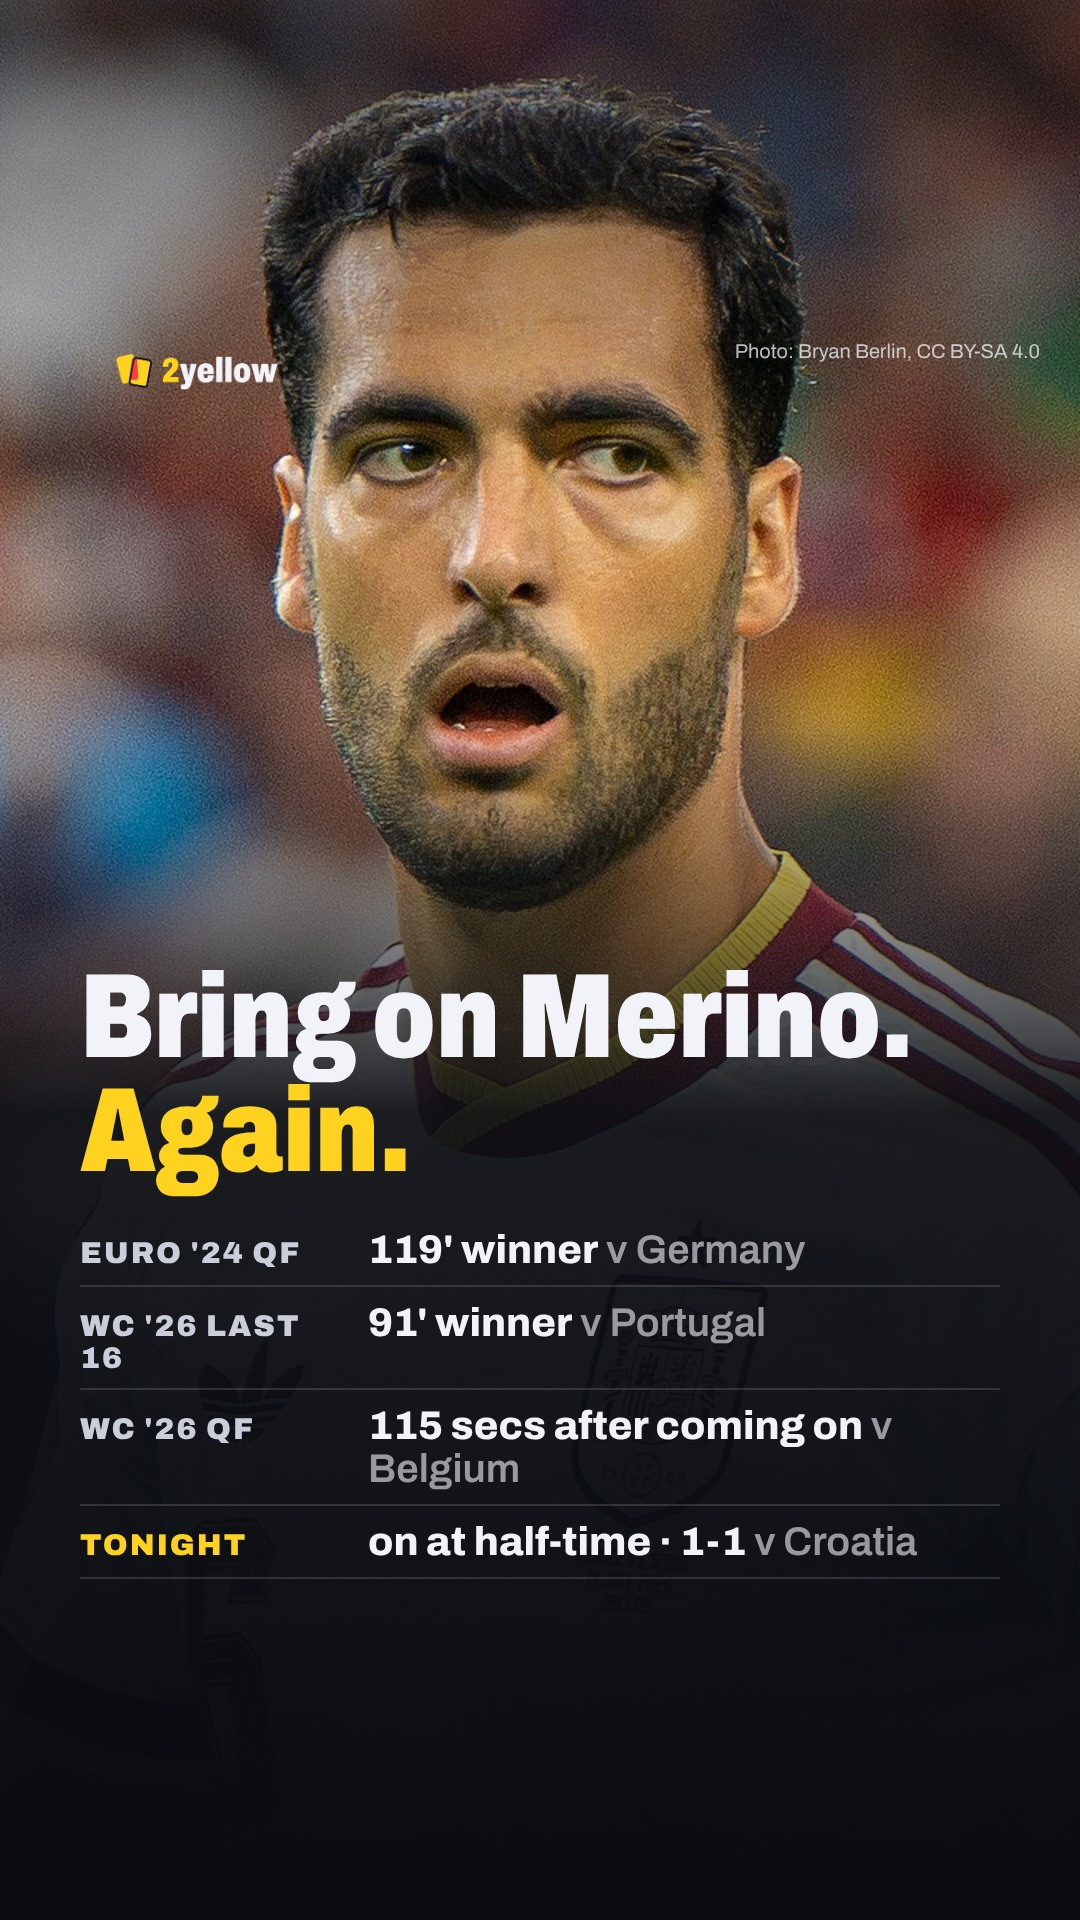
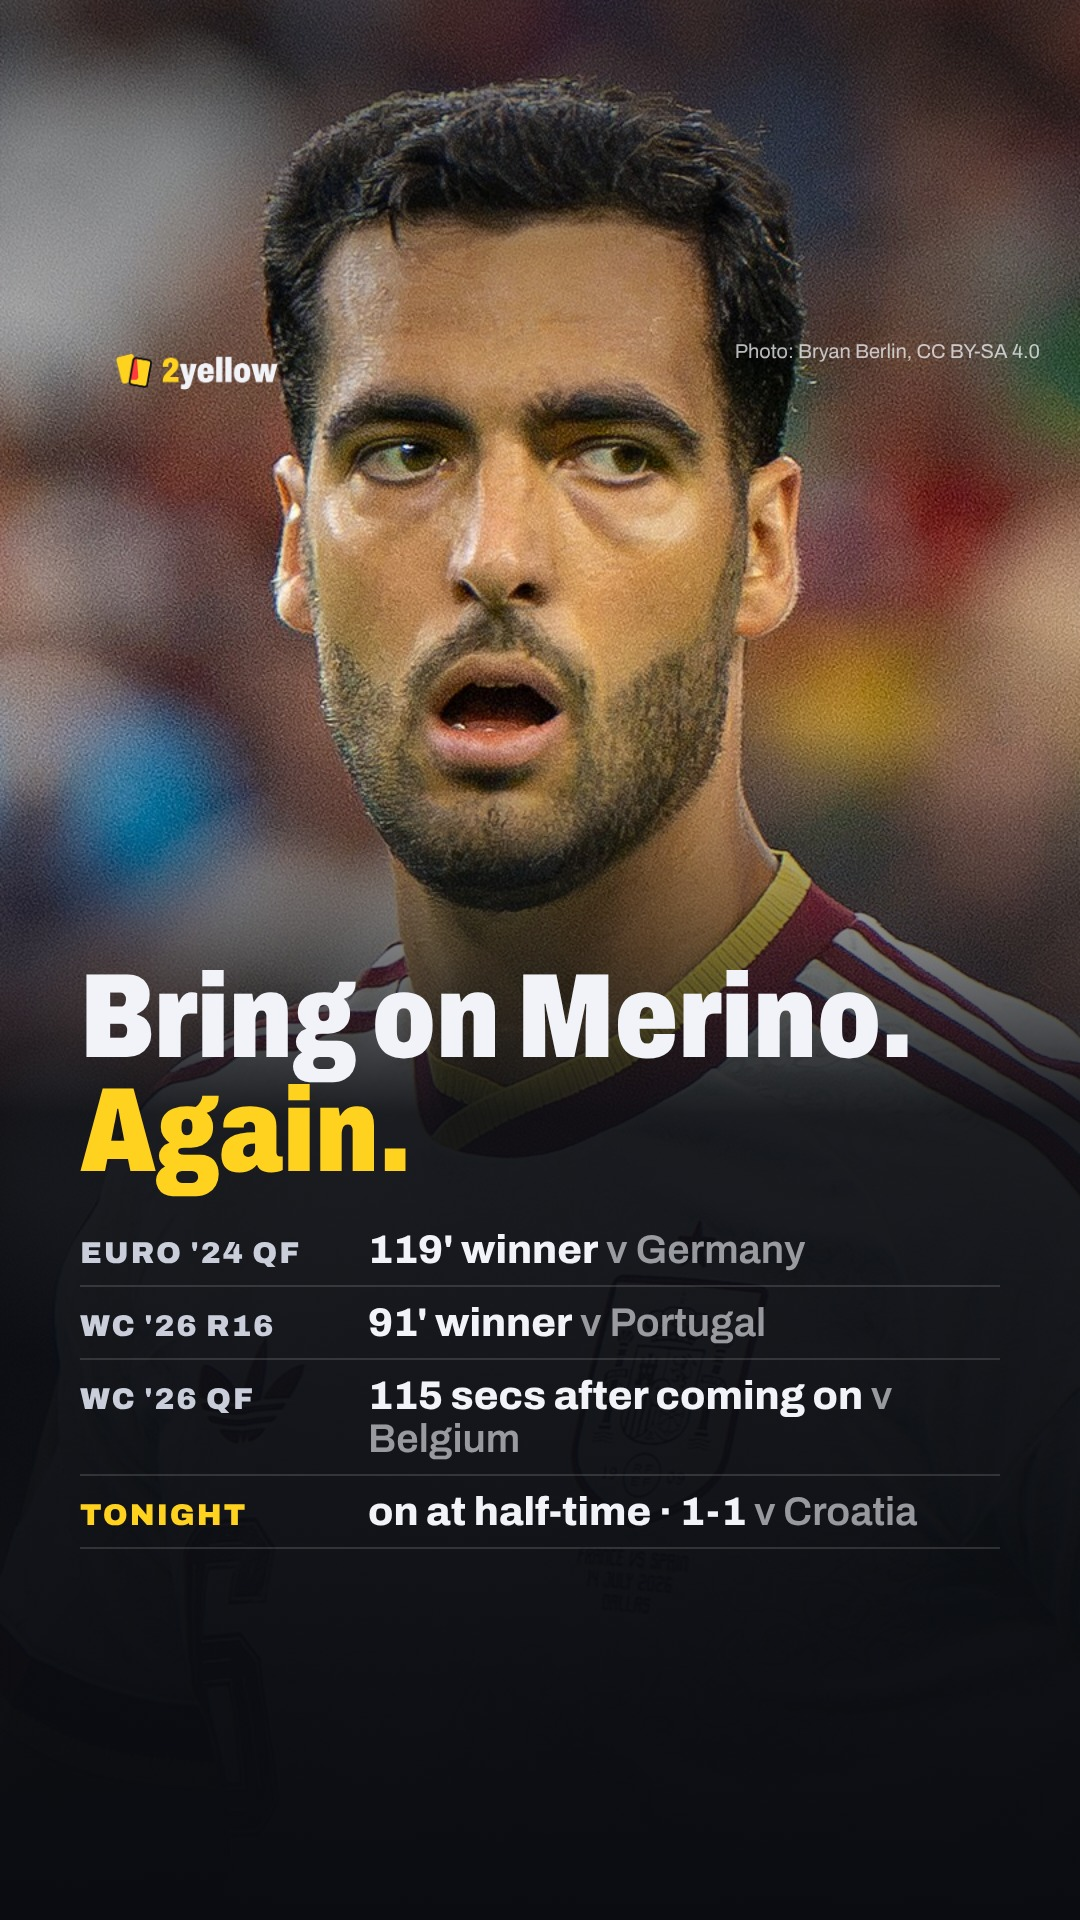
Redes: Merino etiqueta R16
Claude-Session: https://claude.ai/code/session_01BKUgvQwAgM4aDDu1ZjxbZR

Changed region(s): [[0.3361, 0.7188, 0.8556, 0.8125], [0.0611, 0.6875, 0.275, 0.75], [0.0611, 0.7812, 0.2444, 0.8125]]

diff --git a/scripts/merino_supersub.py b/scripts/merino_supersub.py
@@ -5,7 +5,7 @@ R = Path("/home/user/futbol-pipeline/redes/plantillas/recursos"); F = Path("/hom
 b = lambda p: base64.b64encode(Path(p).read_bytes()).decode()
 AM, NO = "#FFD21F", "#0A0C11"
 cred = sys.argv[1]; out = sys.argv[2]; pos = sys.argv[3] if len(sys.argv) > 3 else "center 15%"
-filas = [("EURO '24 QF", "v Germany", "119' winner"), ("WC '26 LAST 16", "v Portugal", "91' winner"),
+filas = [("EURO '24 QF", "v Germany", "119' winner"), ("WC '26 R16", "v Portugal", "91' winner"),
          ("WC '26 QF", "v Belgium", "115 secs after coming on"), ("TONIGHT", "v Croatia", "on at half-time · 1-1")]
 fl = "".join(f'<div style="display:flex;align-items:baseline;gap:18px;padding:14px 0;border-bottom:2px solid rgba(255,255,255,.14)">'
              f'<span style="width:270px;font-size:30px;font-weight:900;letter-spacing:2px;color:{AM if i == 3 else "#C9CEDA"}">{a}</span>'
